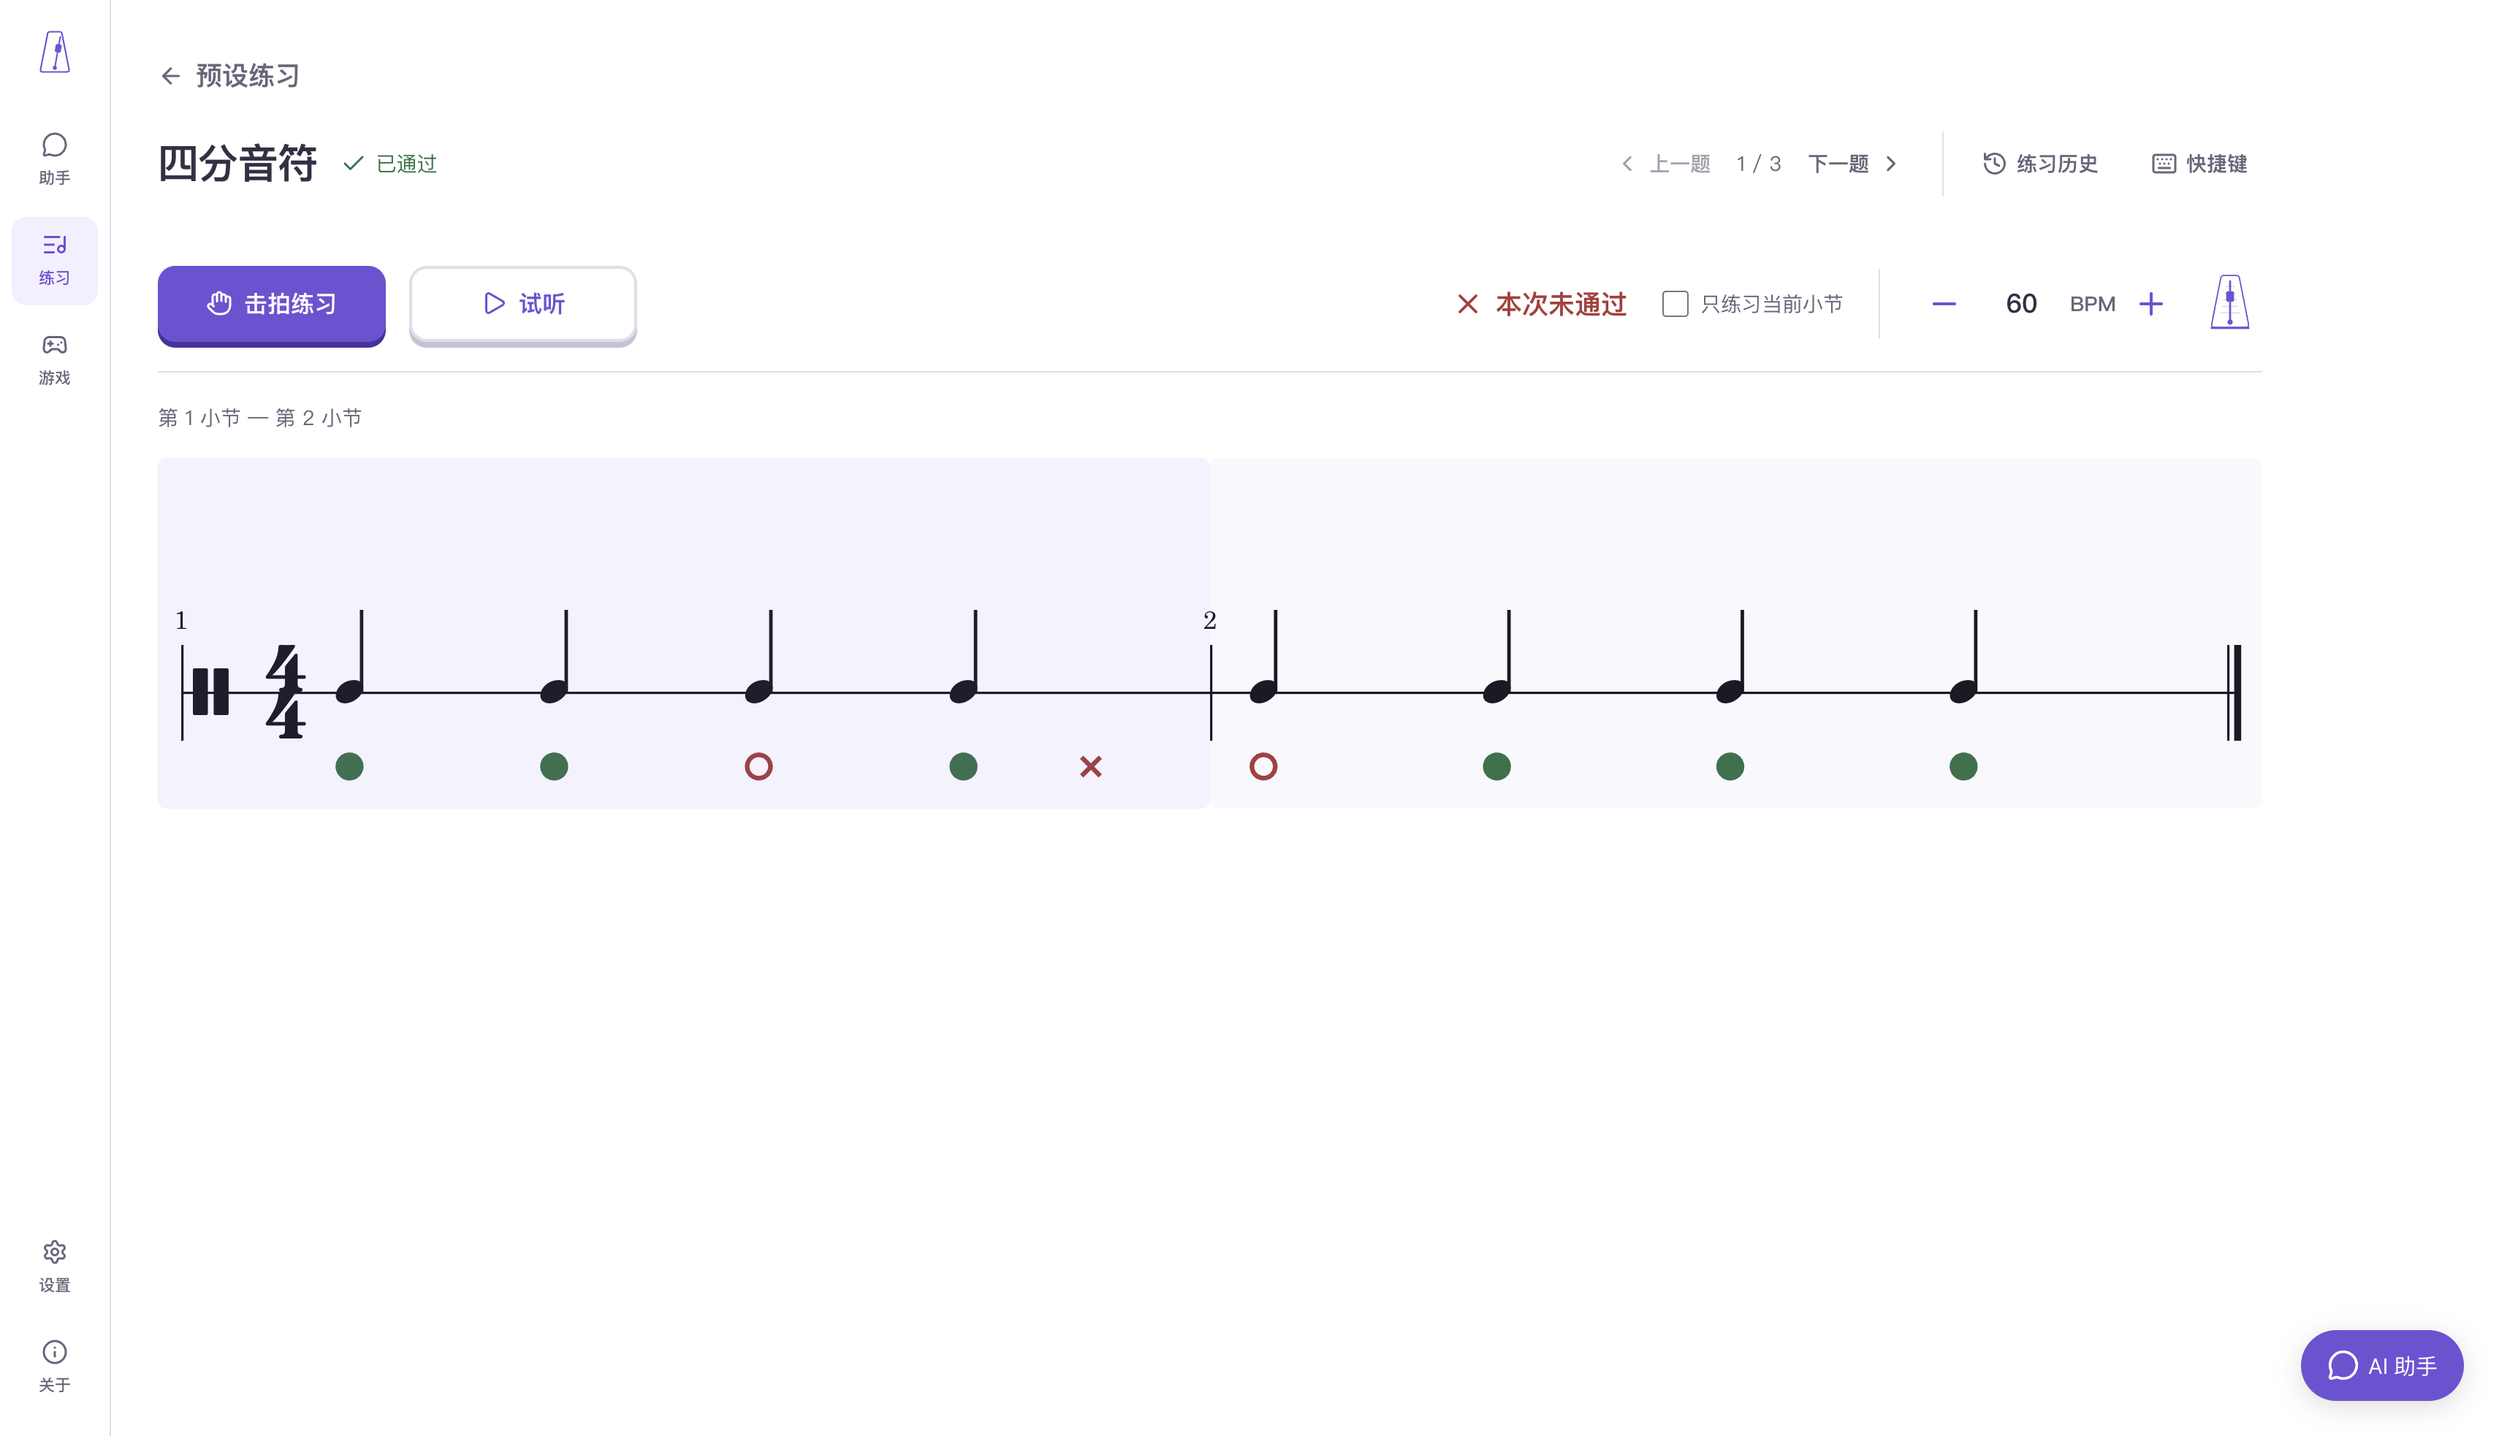
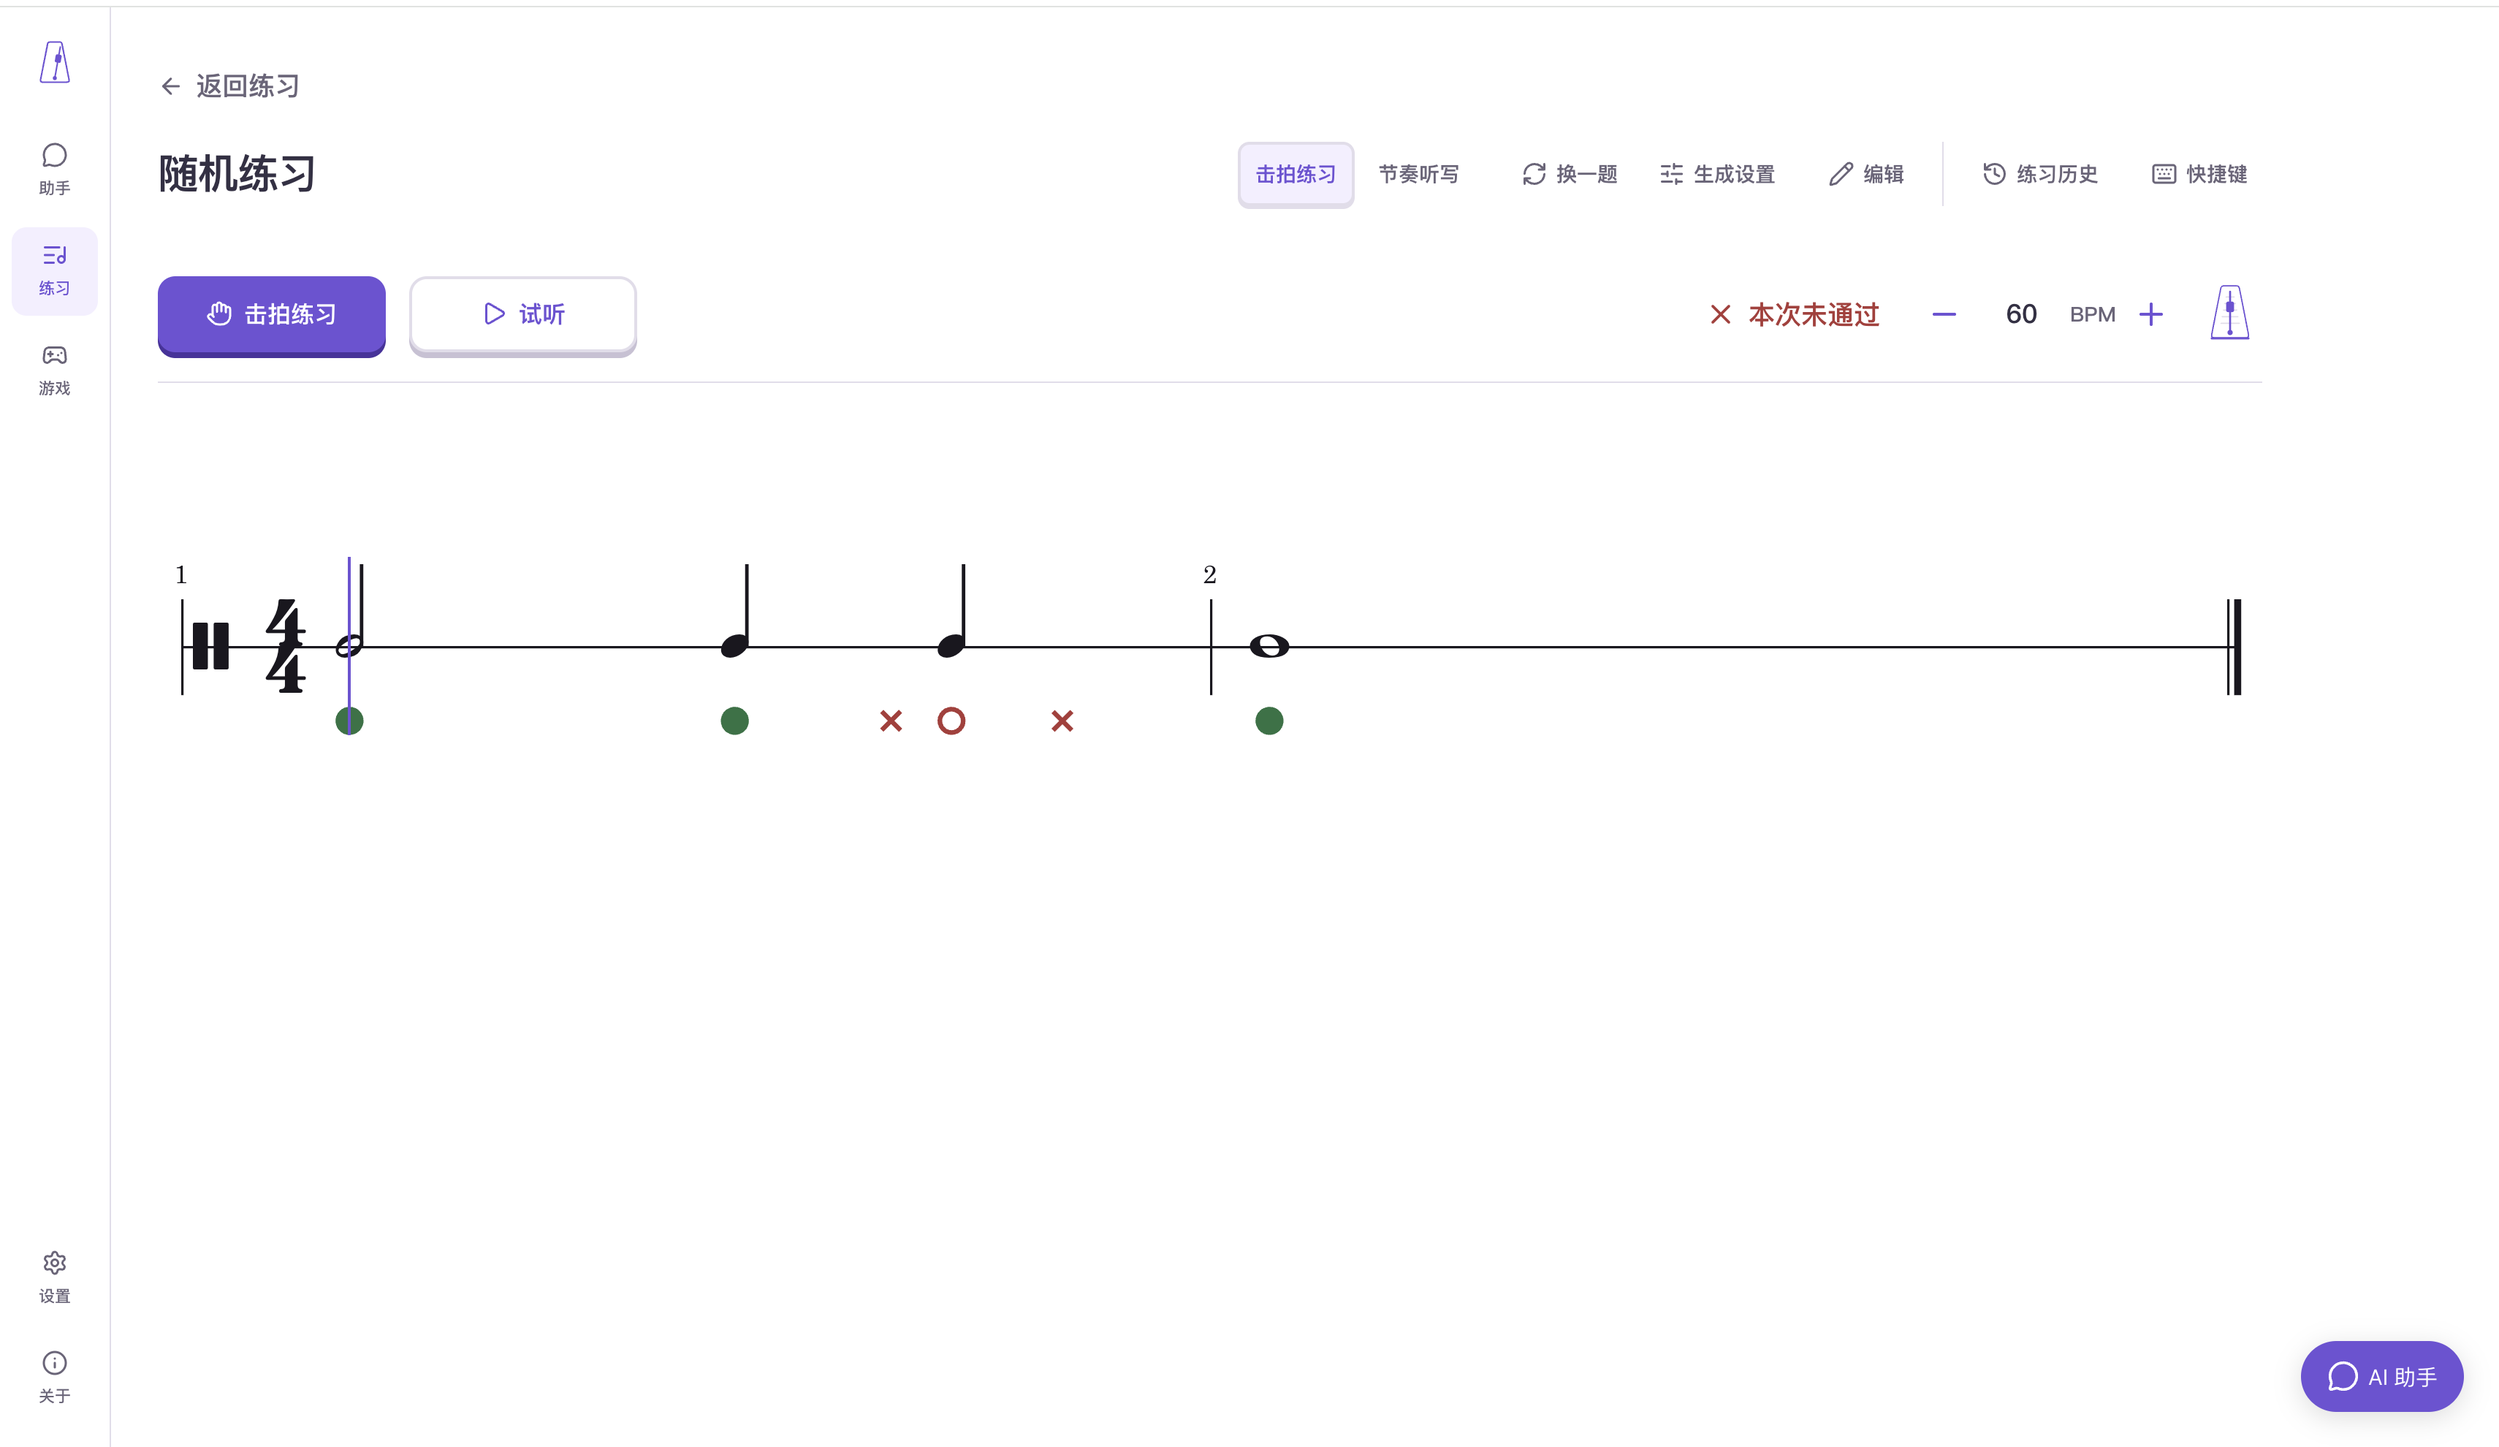
update README

diff --git a/README.md b/README.md
@@ -1,29 +1,26 @@
 # 节奏训练
 
-面向音乐自学者的节奏训练工具，哪里不会练哪里：练什么内容、多少BPM、练哪一小节，都由你自己掌控。
+面向音乐自学者的节奏训练工具，哪里不会练哪里：练什么内容、多少BPM、从哪里开始，都由你自己掌控。
 
 ## 核心功能
 
 **[查看功能演示截图与视频](demo/README.md)**
 
-- **按自己的需要练**
+- **按自己的需要练习击拍与听写**
   - **击拍与听写**：支持击拍练习、节奏听写练习。
   - **自选内容**：预设题目、随机生成、自定义编写，或由 AI 根据文字、乐谱图片辅助出题；支持编辑 AI、随机和自定义题目，并保存到自己的题库。
-  - **针对难点练习**：击拍时可从指定小节练到结尾，也可只练当前小节；听写支持单小节播放、逐小节作答与验证；自由调整 BPM，选择适合自己的速度。
-
+  - **针对难点练习**：击拍练习可从指定位置开始；听写支持单小节播放、逐小节作答与验证；自由调整 BPM，选择适合自己的速度。
 - **AI 节奏助手**
-  - 支持多轮问答、节奏讲解，以及文字和乐谱图片输入。
+  - 支持文字和乐谱图片输入进行多轮问答、节奏讲解。
   - 根据你的要求生成对应的击拍或听写练习题目。
   - 结合当前题目和练习表现，帮助分析问题、提供练习建议。
-  - 支持通过 **DeepSeek API Key** 或 **ChatGPT 订阅授权**接入模型。
-
+  - 当前支持通过 **DeepSeek API Key** 或 **ChatGPT 订阅授权**接入模型。
+- **节奏游戏**
+  - [_冰与火之舞_](https://store.steampowered.com/app/977950/A_Dance_of_Fire_and_Ice/)类的单键节奏游戏, 跟随节奏控制双球沿轨道前进。
+  - 初始包含基础节奏训练及AI原创曲目《微光》，可根据自身需要自行修改、创建关卡。
 - **练习记录与复盘**
   - 保存击拍与听写记录，查看每道题的历史结果和单次练习详情。
   - 按时间、练习模式筛选，查看练习次数、练习天数及次数趋势。
-
-- **节奏游戏**
-  - 跟随节奏控制双球沿轨道前进，支持示范播放、速度调整和指定范围练习。
-  - 初始包含基础节奏训练及AI原创曲目《微光》，可根据自身需要自行创建关卡。
 
 ## 快速启动（Docker）
 
@@ -41,11 +38,13 @@
    docker compose up -d --build
    ```
 
-打开 <http://localhost:8080> 即可使用。使用 AI 助手前，在「设置 → 模型服务」中配置模型。
+打开 <http://localhost:8080> 即可使用。使用 AI 助手前，需在「设置 → 模型服务」中配置模型。
 
 ## 技术栈
 
-- **前端**：React、TypeScript、Vite；React Router（路由）、Lucide（图标）、react-markdown（Markdown 渲染）、VexFlow（谱面渲染）、Web Audio API（音频与节拍调度）；AI SDK UI（助手流式消息）
+- **前端**：React、TypeScript、Vite；React Router（路由）、TanStack Query（服务端状态与缓存）、Radix UI（交互组件）、Lucide（图标）、Recharts（记录图表）、react-markdown（Markdown 渲染）；AI SDK UI（助手流式消息）
+- **谱面与音频**：VexFlow（谱面渲染）、Web Audio API（节拍调度、乐器采样播放与多声部编配）
+- **游戏**：Phaser 4（游戏场景与轨道渲染）、Canvas 2D（像素纹理与节奏海报）；游戏排程与判定由 Web Audio 音频时钟驱动
 - **后端**：Python、FastAPI；SQLite、SQLAlchemy、Alembic（数据存储与迁移）；Pydantic AI（模型接入与工具调用）、OpenAI Python SDK（DeepSeek 与 ChatGPT 订阅 Responses）
 - **部署**：Docker、Nginx
 

diff --git a/demo/README.md b/demo/README.md
@@ -40,5 +40,5 @@
 
 ### 关卡示范：Just the Two of Us
 
-以下为关卡的自动示范播放，[点击查看视频](videos/just-the-two-of-us.mp4)。
+[点击查看视频](videos/just-the-two-of-us.mp4)
 [![观看 Just the Two of Us 关卡示范](images/game-video-cover.jpg)](videos/just-the-two-of-us.mp4)
